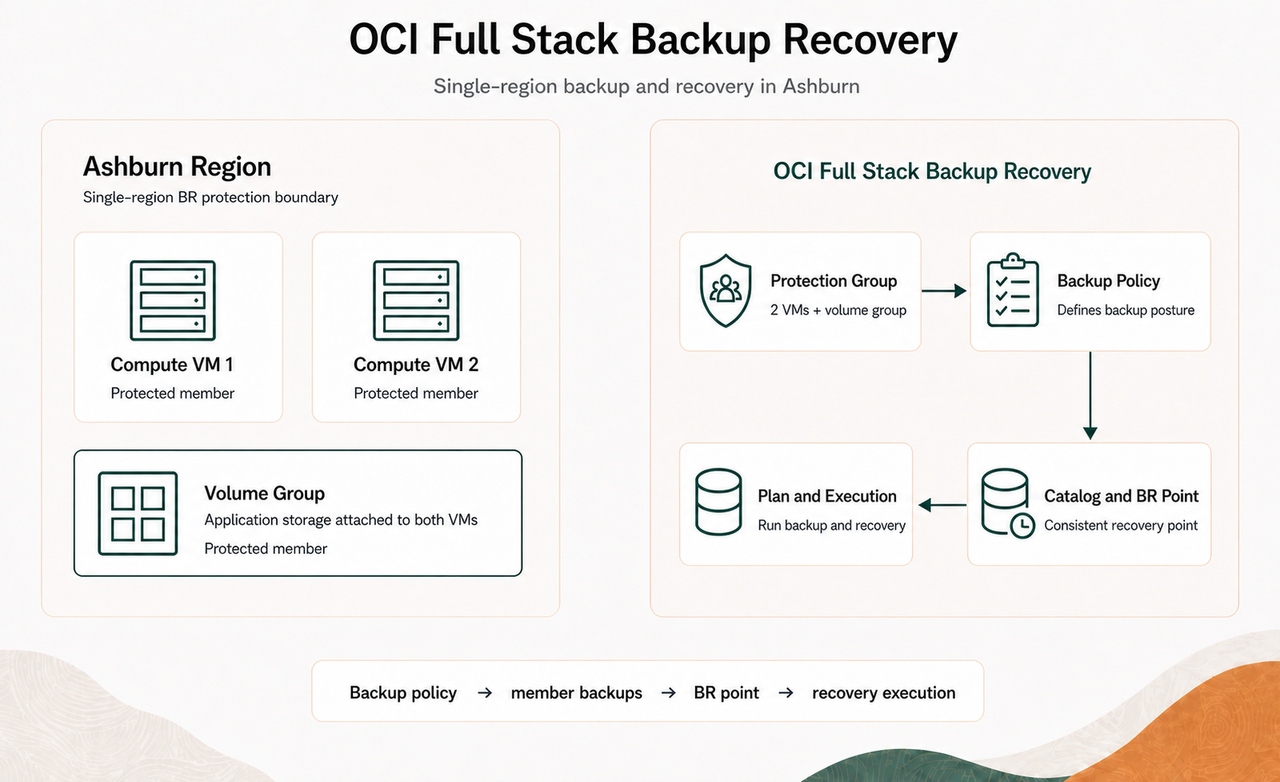
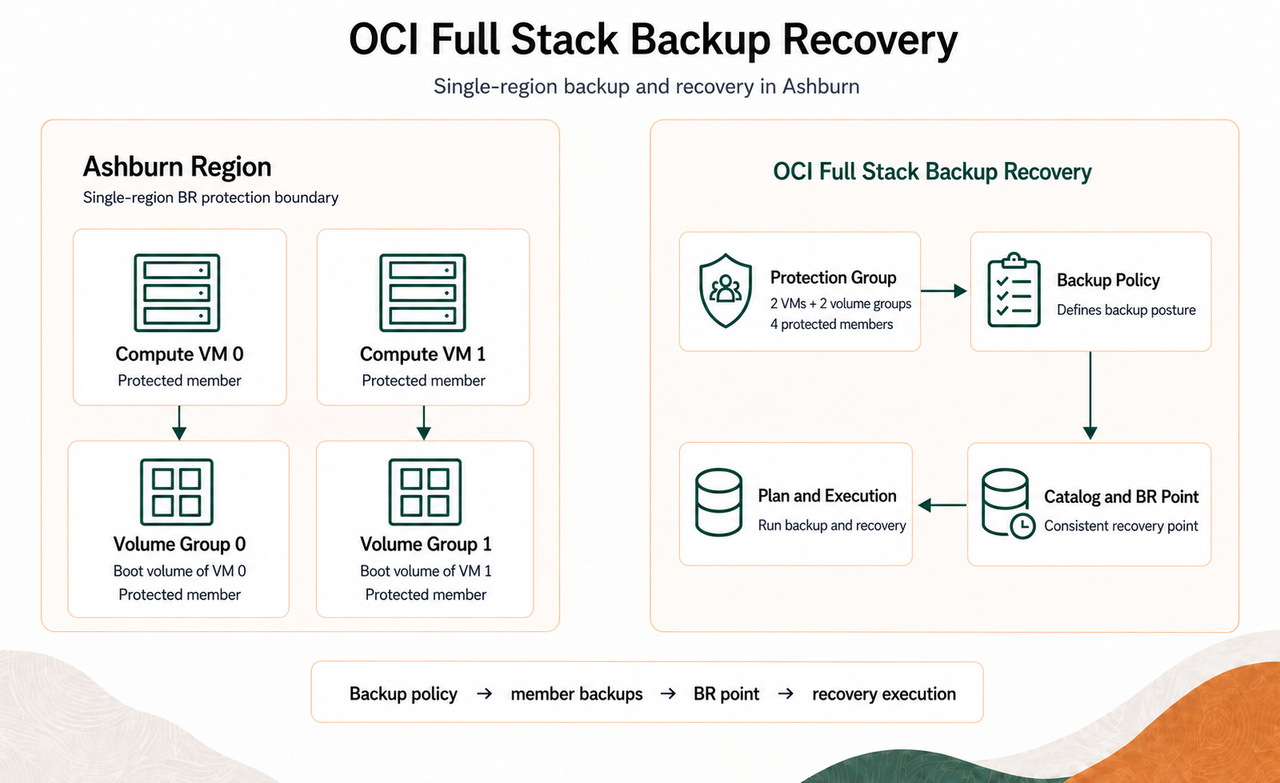
WMS#11676 - Oracle AI World HOL6020 (#84)
* Added videoes

* Additional changes

Additional changes

* Additional feedback

Additional feedback

* Final changes

Final changes

* Task validation fix

Task validation fix

* Validaiton script fix

Validaiton script fix

* Revert "Validaiton script fix"

This reverts commit cd4e16133a7861fd437f198f3e9ba9a4a8c3d9e9.

* Minor updates

Minor updates

diff --git a/oci-fullstack-recovery/oci-fullstack-oke/configure-backup-recovery/configure-backup-recovery.md b/oci-fullstack-recovery/oci-fullstack-oke/configure-backup-recovery/configure-backup-recovery.md
@@ -51,6 +51,17 @@ In this lab, you will:
 
 2. In separate browser tabs, open `http://<public-ip-1>` for VM 0 and `http://<public-ip-2>` for VM 1. Use the first tab to monitor VM 0 and the second tab to monitor VM 1. Record the number of completed AI jobs shown by the synthetic AI workload on each VM. These values are the baseline for the Full Stack BR backup and recovery validation. Keep both tabs open throughout Lab 5 and return to them at each major Full Stack BR milestone to record the updated counters.
 
+    Copy the following table into your notes and record the counters from both workload tabs there. Return to it at each checkpoint in Tasks 4 and 5. Record your initial baseline now.
+
+    | Checkpoint | VM 0 | VM 1 |
+    |---|---|---|
+    | Initial baseline — Task 1, Step 2 | Record | Record |
+    | Before backup — Task 4, Step 3 | Record | Record |
+    | After backup — Task 4, Step 8 | Record | Record |
+    | First observation after Compute Instances - Start succeeds — Task 5, Step 7 | Record | Record |
+    | After recovery completes — Task 5, Step 8 | Record | Record |
+    | Next scheduler update — Task 5, Step 8 | Record | Record |
+
    If a browser security warning appears when opening the VM workload page, proceed to the site and continue.
 
    If you encounter another browser error, try the following troubleshooting steps:
@@ -138,11 +149,11 @@ In this lab, you will:
 
     ![Plan groups in the default backup plan](./images/full-stack-br-default-backup-plan-groups.png)
 
-3. Before running the backup plan, return to the two workload tabs and record the current **AI jobs completed** value from VM 0 and VM 1. In the example run, this value is **483 jobs** on each VM. Use the values displayed in your own VM tabs as the pre-backup baseline for comparison after the backup and restore operations.
+3. Before running the backup plan, return to the two workload tabs and record the current **AI jobs completed** value from VM 0 and VM 1. In the example run, this value is **483 jobs** on each VM. Use the values displayed in your own VM tabs as the pre-backup baseline for comparison after the backup and restore operations. Enter both values in the **Before backup** row of the recording table in Task 1, Step 2.
 
     ![Synthetic AI workload counters before the backup](./images/synthetic-ai-workload-pre-backup.png)
 
-4. On the **default-backup-plan** page, open **Actions** and select **Execute plan**. Confirm the execution to start the backup plan.
+4. On the **default-backup-plan** page, open **Actions** and select **Execute plan**.
 
     ![Execute the default backup plan](./images/full-stack-br-execute-backup-plan.png)
 
@@ -164,7 +175,7 @@ In this lab, you will:
 
     ![Available Full Stack BR member backups](./images/full-stack-br-member-backups.png)
 
-8. Return to the two workload tabs and record the updated **AI jobs completed** value from VM 0 and VM 1. In the example run, this value is **491 jobs** on each VM. Compare the values with the pre-backup baseline, using the values displayed in your own VM tabs.
+8. Return to the two workload tabs and record the updated **AI jobs completed** value from VM 0 and VM 1. In the example run, this value is **491 jobs** on each VM. Compare the values with the pre-backup baseline, using the values displayed in your own VM tabs. Enter both values in the **After backup** row of the recording table.
 
     ![Synthetic AI workload counters after the backup](./images/synthetic-ai-workload-post-backup.png)
 
@@ -180,7 +191,7 @@ In this lab, you will:
 
 3. Monitor the Recovery catalog until **First recovery point** is **Active**. Confirm that the recovery point is available and uses the member backups created in Task 4.
 
-    Open the recovery point details and confirm that it references the four active member backups created in Task 4: two compute-instance backups and two volume-group backups.
+    Open the recovery point details. Confirm that the recovery point references the latest Active member backups created by **First backup** in Task 4: two compute-instance backups and two volume-group backups.
 
     ![Active First recovery point](./images/full-stack-br-recovery-catalog-point.png)
 
@@ -190,15 +201,23 @@ In this lab, you will:
 
     ![Recover now from the First recovery point](./images/full-stack-br-recovery-point-recover-now.png)
 
-6. In the execution form, confirm that **default-recover-plan** is selected and that the recovery point is **First recovery point**. Leave prechecks enabled, enter a name such as `Recovery plan execution`, and select **Execute plan**.
+6. In the execution form, confirm that **default-recover-plan** is selected and that the recovery point is **First recovery point**. Leave prechecks enabled and enter a name such as `Recovery plan execution`.
+
+    **Note:** During recovery, both demo VMs stop briefly and their storage is restored from the selected backups. Changes made after those backups are lost, and the plan replaces and terminates the original volumes. The workloads resume as the VMs restart.
+
+    Select **Execute plan**.
 
     ![Execute the recovery plan from the First recovery point](./images/full-stack-br-recovery-plan-execution.png)
 
-7. Open the **Plan executions** tab, select **Recovery plan execution**, and monitor the plan execution groups. Confirm that the prechecks, compute stop, volume-group restore, boot-volume replacement, compute start, and block-volume replacement groups progress to completion.
+7. Open the **Plan executions** tab, select **Recovery plan execution**, and monitor the plan execution groups. Confirm that the prechecks, compute stop, volume-group restore, boot-volume replacement, compute start, block-volume replacement, **Volume Groups - Replace Volumes**, and **Compute Instances - Terminate Volumes** groups progress to completion.
 
     ![Monitor the recovery plan execution](./images/full-stack-br-recovery-execution-progress.png)
 
-    When you observe the **Compute Instances - Start** group complete successfully, return to the two workload tabs and check the **AI jobs completed** counter on both VMs. Compare the counters with the value captured by **First recovery point**. The values should be approximately aligned with the recovery point, although the workload may complete another job while the remaining recovery steps finish. If you were completing Labs 3–4 when the VMs restarted, record the counters when you return. They may be higher because the workload continued running; do not repeat recovery just to reproduce the example counters.
+    When you observe the **Compute Instances - Start** group complete successfully, return to the two workload tabs and check the **AI jobs completed** counter on both VMs. Enter both values in the **First observation after Compute Instances - Start succeeds** row of the recording table.
+
+    Compare each VM's restored counter with its own **Before backup** and **After backup** values in the recording table. The recovery point restores the state captured by its referenced backups. Counters may have increased by the time you observe them because the scheduler resumes after restart.
+
+    If you were completing Labs 3–4 when the VMs restarted, record the counters when you return. They may be higher because the workload continued running; do not repeat recovery just to reproduce the example counters.
 
     ![VM workload counters after compute instances restart](./images/synthetic-ai-workload-after-recovery.png)
 
@@ -210,7 +229,9 @@ In this lab, you will:
 
     ![Successful recovery plan execution groups](./images/full-stack-br-recovery-execution-groups-succeeded.png)
 
-8. After the recovery plan completes, review the final **AI jobs completed** values on both workload tabs. The counters may be slightly higher than the recovery-point value because the scheduler resumes as the VMs restart. In a production workload, the selected recovery point determines the state restored according to the recovery requirement.
+8. After the recovery plan completes, review the final **AI jobs completed** values on both workload tabs. Enter both values in the **After recovery completes** row of the recording table. The counters may be slightly higher than the recovery-point value because the scheduler resumes as the VMs restart. In a production workload, the selected recovery point determines the state restored according to the recovery requirement.
+
+    Keep both workload tabs open and wait for the next scheduler update, which occurs about once per minute. Record both counters in the **Next scheduler update** row and confirm that each counter increases from its recorded post-recovery value. If a counter does not increase, wait for one more update and check the workload status before considering recovery validation complete.
 
 ## Conclusion
 

diff --git a/oci-fullstack-recovery/oci-fullstack-oke/deploy-ai-workload/deploy-ai-workload.md b/oci-fullstack-recovery/oci-fullstack-oke/deploy-ai-workload/deploy-ai-workload.md
@@ -48,7 +48,7 @@ In this lab, you will:
 
     ![Oracle ADB menu](./images/adb-menu.png)
 
-    Select the compartment (**LLXXXXXX-COMPARTMENT**) shown in the lab instructions. You can verify it with **View Login Info** at the top left of the instructions page. **LLXXXXXX** is the user name used to sign in to the OCI Console.
+    Select the compartment (**LLXXXXXX-COMPARTMENT**) shown in the lab instructions. You can verify it with **View Login Info** at the top left of the instructions page. Use the exact compartment name shown in **View Login Info**.
 
     Use the compartment selector's search field to enter your assigned compartment name, such as **LLXXXXXX-COMPARTMENT**, and then select the matching compartment from the results.
     
@@ -172,6 +172,8 @@ In this lab, you will:
 
     Under **ADB-backed documents**, confirm that **No documents yet** appears. Leave **Use uploaded documents when available** checked. With no documents available, the application sends your question directly to Granite without retrieved context.
 
+    **Existing environments:** If documents are already listed, uncheck **Use uploaded documents when available** before asking the first question. This bypasses all stored documents without deleting them. The deployment smoke test may also appear in **ADB-backed history**; chat history is not sent to Granite as context.
+
     In **Chat with Granite**, enter the following question and click **Ask**:
 
     **What is OCI Full Stack Disaster Recovery?**
@@ -185,8 +187,6 @@ In this lab, you will:
     ![Granite response without RAG before uploading a document](./images/validate-ai-response-without-rag.png)
 
     **RAG note:** Retrieval-augmented generation (RAG) adds retrieved document text to the question sent to Granite. The first response uses no document context. After you upload a document, the application can retrieve its text chunks to help generate an answer.
-
-    **Existing environments:** If documents are already listed, uncheck **Use uploaded documents when available** before asking the first question. This bypasses all stored documents without deleting them. The deployment smoke test may also appear in **ADB-backed history**; chat history is not sent to Granite as context.
 
 2. Upload the documentation to test RAG.
 
@@ -205,6 +205,8 @@ In this lab, you will:
     Confirm that the response is labeled **With RAG — document context used**. Unlike the generic response in Step 1, which used Granite's model knowledge without document context, this answer is generated using excerpts retrieved from the documentation you uploaded in Step 2. It should reflect the information in that document.
 
     Review the **Sources** filenames and excerpts below the response to confirm that the uploaded PDF was used and that the answer accurately reflects the documentation. RAG grounds the answer in document content, but does not guarantee correctness. The generated wording may vary.
+
+    **Note:** Check that the source excerpts support the main claims in the answer; a matching filename alone does not confirm grounding. Unrelated excerpts indicate a retrieval-quality limitation, not necessarily a deployment failure.
 
     ![Granite response using RAG after uploading the documentation](./images/validate-ai-response-with-rag.png)
 

diff --git a/oci-fullstack-recovery/oci-fullstack-oke/configure-fsdr/configure-fsdr.md b/oci-fullstack-recovery/oci-fullstack-oke/configure-fsdr/configure-fsdr.md
@@ -67,7 +67,7 @@ In this lab, you will:
 
     ![Lab 2 snapshot standby script paused before creating the Switchover, Failover, and Start Drill plans](./images/fsdr-snapshot-standby-complete.png)
 
-    Press **Enter** to start creating the Switchover, Failover, and Start Drill plans. Plan creation takes approximately **7–8 minutes**. While the plans are being created, continue to **Task 2: Monitor the Configuration in the OCI Console**. Keep the Ashburn Cloud Shell tab open.
+    Press **Enter** to start creating the Switchover, Failover, and Start Drill plans. Plan creation takes approximately **7–8 minutes**. While the plans are being created, continue to **Task 2: Monitor the Full Stack DR Configuration in the OCI Console**. Keep the Ashburn Cloud Shell tab open.
 
     When the script finishes, return to Task 1. Confirm that it returns to the shell prompt and displays the OCIDs for the primary and standby protection groups and the three DR plans. The complete configuration takes approximately 10 minutes, excluding time spent at the confirmation prompts.
 
@@ -86,6 +86,8 @@ In this lab, you will:
     ![OCI Console navigation menu showing Migration & Recovery, Recovery, and Disaster Recovery in Phoenix](./images/oci-navigation-phoenix-disaster-recovery.png)
 
 2. In both OCI Console tabs, change to the compartment assigned to you. Expand the root compartment, select **Livelabs**, and then select your assigned compartment.
+
+    **Note:** After refreshing an OCI resource list, confirm that your assigned compartment is still selected. If resources disappear or an authorization error appears, reselect that compartment before retrying.
 
 3. Open **DR Protection groups** in each Console tab and monitor the pages as the primary and standby protection groups are created. Refresh the Console tabs periodically if the resources do not appear immediately; do not refresh the Cloud Shell tab. Verify the region-specific names:
 

diff --git a/oci-fullstack-recovery/oci-fullstack-oke/introduction/introduction.md b/oci-fullstack-recovery/oci-fullstack-oke/introduction/introduction.md
@@ -104,7 +104,9 @@ The workshop uses a primary OKE and Autonomous AI Database environment in Ashbur
 
 ### Full Stack Backup Recovery
 
-![OCI Full Stack Backup Recovery protecting two compute VMs and a volume group in the Ashburn region](./images/full-stack-br-architecture.png)
+Each compute VM has its own volume group containing its boot volume. The BR protection group has four members: two compute VMs and two individual volume groups.
+
+![OCI Full Stack Backup Recovery protecting two compute VMs and two individual volume groups, one per VM, as four members in the Ashburn region](./images/full-stack-br-architecture.png)
 
 ## Environment Details
 
@@ -114,12 +116,12 @@ The workshop uses a primary OKE and Autonomous AI Database environment in Ashbur
 - The workshop configures cross-region replication before creating the Full Stack DR protection groups and plans.
 - Full Stack BR uses the compute instances and their individual volume groups to create backups, catalog recovery points, and run backup and recovery plans.
 
-### Pre-provisioned Resources
+### Pre-provisioned Resources and Lab Setup
 
 The workshop environment includes the following resources for the two resiliency services:
 
 - **Full Stack DR:** A primary OKE cluster and Autonomous AI Database in Ashburn, a standby OKE cluster and Autonomous AI Database in Phoenix, and Autonomous Data Guard between the databases. Lab 1 creates and configures the AI workload persistent volume group with cross-region replication.
-- **Full Stack BR:** Two compute instances and an individual block volume group for each VM in Ashburn. These resources are added to a BR protection group for backup and recovery.
+- **Full Stack BR:** Two compute instances running the synthetic AI workload in Ashburn. Lab 5 creates one volume group per VM containing its boot volume. The script adds both VMs and both volume groups to the BR protection group as four members.
 
 ## Objectives
 

diff --git a/oci-fullstack-recovery/oci-fullstack-oke/execute-prechecks-start-drill/execute-prechecks-start-drill.md b/oci-fullstack-recovery/oci-fullstack-oke/execute-prechecks-start-drill/execute-prechecks-start-drill.md
@@ -35,11 +35,11 @@ In this lab, you will:
 
 3. Select **fsdr-rag-xxxxxx-start-drill**. Confirm the **Start Drill** type and the standby DR protection group.
 
-4. Click **Actions**, select **Run prechecks**, and confirm the action if the Console prompts you. Wait for the precheck execution to finish.
+4. Click **Actions**, select **Run prechecks**, and confirm the action if the Console prompts you.
 
     ![Actions menu with Run prechecks selected for the Start Drill plan](./images/run-start-drill-prechecks.png)
 
-    In the **Run prechecks** dialog, verify the DR plan and **Start drill** type. Leave **Precheck name** blank or enter a name. Keep **Ignore warnings** turned off. Click **Run prechecks**.
+    In the **Run prechecks** dialog, verify the DR plan and **Start drill** type. Leave **Precheck name** blank or enter a name. Keep **Ignore warnings** turned off. Click **Run prechecks** and wait for the precheck execution to finish.
 
     ![Run prechecks dialog for the Start Drill plan](./images/run-prechecks-dialog.png)
 
@@ -61,7 +61,7 @@ In this lab, you will:
 
 ## Task 2: Execute and Monitor the Start Drill Plan
 
-The Start Drill tests recovery in Phoenix without changing the production role. It  converts the standby database to snapshot standby database, restores the OKE application, storage, and related resources, then runs validation checks. The drill may take approximately **15–20 minutes**.
+The Start Drill tests recovery in Phoenix without changing the production role. It converts the standby database to the **Snapshot Standby** role, restores the OKE application, storage, and related resources, then runs validation checks. The drill may take approximately **15–20 minutes**.
 
 1. Return to the **fsdr-rag-xxxxxx-start-drill** plan. Open **Actions** and select **Execute plan**.
 

diff --git a/oci-fullstack-recovery/oci-fullstack-oke/test-recovery/test-recovery.md b/oci-fullstack-recovery/oci-fullstack-oke/test-recovery/test-recovery.md
@@ -92,6 +92,8 @@ In this lab, you will:
 
 2. Confirm that the frontend loads. Verify that the API, Autonomous DB, and Ollama statuses show **ok** or **up**, that **Active DB region** and **Connected DB region** show `us-phoenix-1`, and that the model is `granite4.1:3b`.
 
+    **Note:** Replicated documents and history may retain Ashburn metadata during the Phoenix drill.
+
     Keep **Use uploaded documents when available** checked. In **Chat with Granite**, enter the following question and click **Ask**:
 
     **What is OCI Full Stack Disaster Recovery?**
